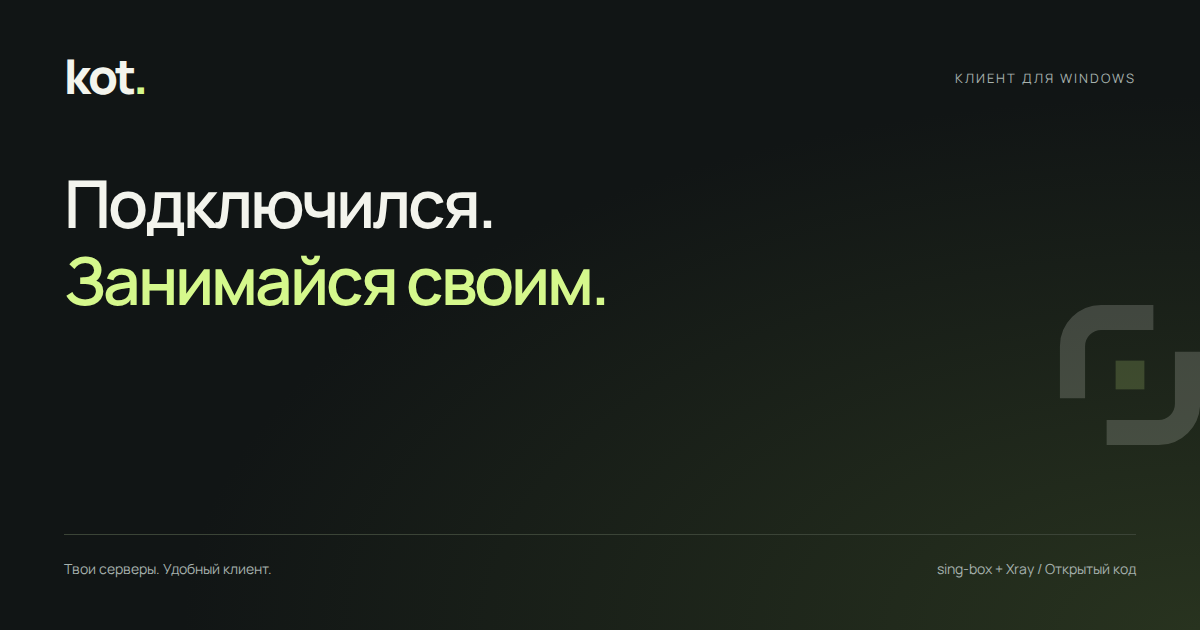
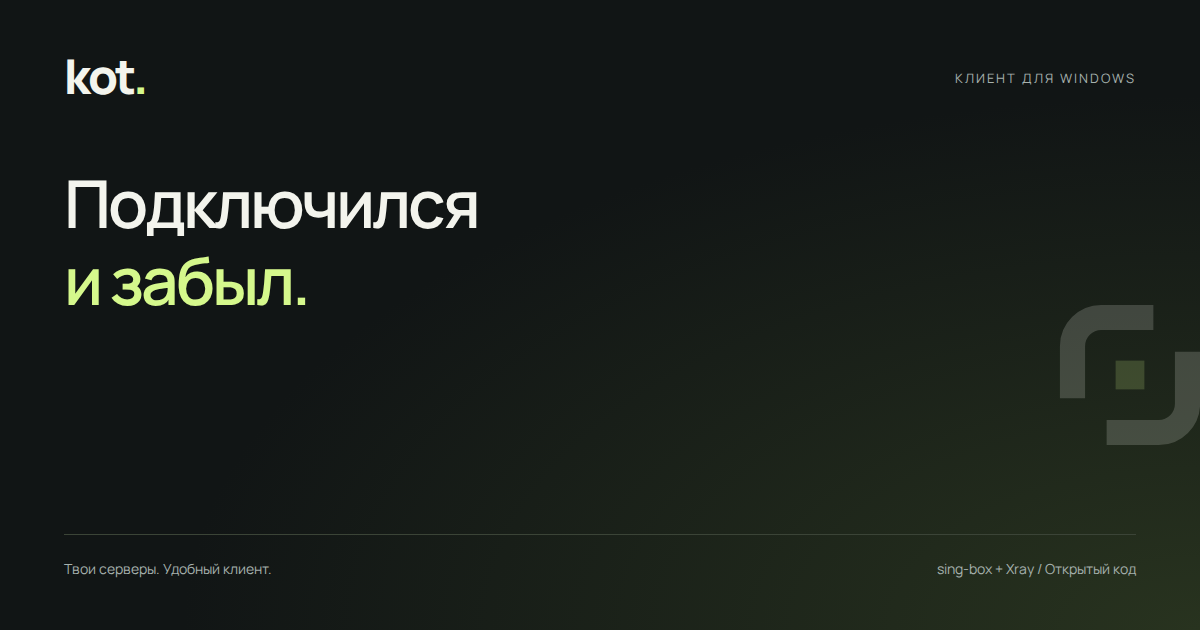
site: shorten the slogan to Подключился и забыл (#30)

Changed region(s): [[0.0308, 0.3921, 0.4933, 0.4825]]

diff --git a/site/index.html b/site/index.html
@@ -5,7 +5,7 @@
   <meta name="viewport" content="width=device-width, initial-scale=1">
   <meta name="theme-color" content="#111515">
   <meta name="description" content="kot. Бесплатный клиент для Windows на базе sing-box и Xray. Подписки, TUN, маршрутизация, статистика и работа в фоне. Скачай или попробуй интерфейс прямо на сайте.">
-  <meta property="og:title" content="kot. / Подключился. Занимайся своим.">
+  <meta property="og:title" content="kot. / Подключился и забыл.">
   <meta property="og:description" content="Твои серверы. Удобный клиент. Подписки, маршрутизация и работа в фоне на Windows. Попробуй интерфейс без установки.">
   <meta property="og:type" content="website">
   <meta property="og:locale" content="ru_RU">
@@ -13,9 +13,9 @@
   <meta property="og:image" content="https://prodkot.github.io/kot/assets/social.png">
   <meta property="og:image:width" content="1200">
   <meta property="og:image:height" content="630">
-  <meta property="og:image:alt" content="kot. Подключился. Занимайся своим. Клиент для Windows на базе sing-box и Xray.">
+  <meta property="og:image:alt" content="kot. Подключился и забыл. Клиент для Windows на базе sing-box и Xray.">
   <meta name="twitter:card" content="summary_large_image">
-  <title>kot. / Подключился. Занимайся своим.</title>
+  <title>kot. / Подключился и забыл.</title>
   <link rel="canonical" href="https://prodkot.github.io/kot/">
   <link rel="icon" href="assets/favicon.svg" type="image/svg+xml">
   <link rel="preload" href="assets/Manrope.ttf" as="font" type="font/ttf" crossorigin>
@@ -37,7 +37,7 @@
   <main id="main">
     <section class="hero wrap" aria-labelledby="hero-title">
       <div class="hero-top"><p class="eyebrow"><span class="status-dot" aria-hidden="true"></span> ТВОИ СЕРВЕРЫ. ТВОЙ ИНТЕРНЕТ.</p><a class="release-pill" href="https://github.com/prodkot/kot/releases/latest"><span data-release-version>Последний релиз</span><span aria-hidden="true">↗</span></a></div>
-      <h1 id="hero-title">Подключился.<span>Занимайся своим.</span></h1>
+      <h1 id="hero-title">Подключился <span>и забыл.</span></h1>
       <div class="hero-copy">
         <p>Клиент для Windows, который берёт подключение на себя. Добавь свою подписку, выбери сервер и возвращайся к делам.</p>
         <div class="hero-actions"><div class="action-row"><a class="button download-link" href="https://github.com/prodkot/kot/releases/latest">Скачать для Windows <svg aria-hidden="true" viewBox="0 0 24 24"><path d="M12 4v12m-5-5 5 5 5-5M5 20h14"/></svg></a><a class="try-demo" href="#demo">Попробовать демо <span aria-hidden="true">↘</span></a></div><p class="download-meta">Windows 10 / 11, x64 <span aria-hidden="true">·</span> Бесплатно <span aria-hidden="true">·</span> Открытый код</p></div>
@@ -110,7 +110,7 @@
       </div>
     </section>
     <section class="download-section wrap" id="download" aria-labelledby="download-title">
-      <div><p class="eyebrow">МОЖНО ВОЗВРАЩАТЬСЯ К ДЕЛАМ</p><h2 id="download-title">Подключайся.</h2><p>Твоя подписка. Твой сервер. Твой kot.</p></div>
+      <div><p class="eyebrow">МОЖНО ВОЗВРАЩАТЬСЯ К ДЕЛАМ</p><h2 id="download-title">Подключился и забыл.</h2><p>Твоя подписка. Твой сервер. Твой kot.</p></div>
       <div class="download-actions"><a class="button download-link" href="https://github.com/prodkot/kot/releases/latest">Скачать для Windows <svg aria-hidden="true" viewBox="0 0 24 24"><path d="M12 4v12m-5-5 5 5 5-5M5 20h14"/></svg></a><p class="download-meta"><span data-release-version>Последняя версия</span><span aria-hidden="true">·</span><span id="download-size">Windows x64</span></p><a class="changelog" href="https://github.com/prodkot/kot/releases/latest">Что нового в релизе <span aria-hidden="true">↗</span></a></div>
     </section>
   </main>
